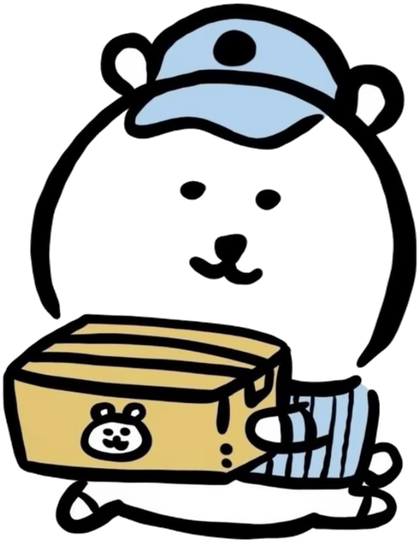
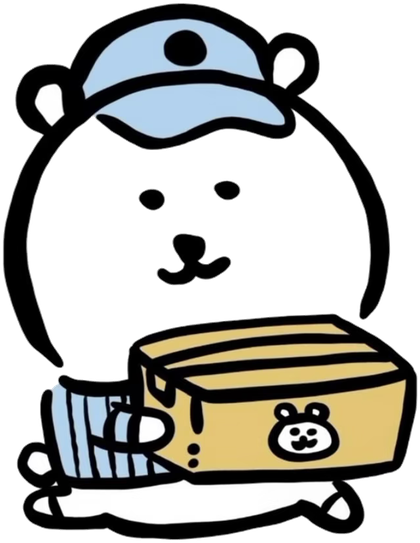
ba48f664-7088-4178-919c-0c181e6376ef

diff --git a/src/components/apps/taobao.tsx b/src/components/apps/taobao.tsx
@@ -63,7 +63,6 @@ import {
   Loader2,
   RefreshCw,
 } from 'lucide-react';
-import { MT_RIDERS, mtGetRiderId, mtRiderSrcOf, mtSetRiderId } from '@/lib/ios/mt-rider';
 import { TB_COURIERS, tbCourierNameOf, tbCourierSrcOf, tbGetCourierId, tbSetCourierId } from '@/lib/ios/tb-courier';
 import { useSettings, useUI } from '@/lib/ios/store';
 import { tbCreateOrderShare, tbCreateProxyRequest } from '@/lib/ios/tb-share-proxy';
@@ -5539,10 +5538,6 @@ function MePage({
   onOpenBill: () => void;
 }) {
   const [, setTick] = useState(0);
-  // 骑手形象选择（需求：我的淘宝淘金币入口改为骑手，复用美团 mt-rider 全套形象；
-  // 选中形象同时用于淘宝物流页地图巡航，与美团共用同一 localStorage）
-  const [riderOpen, setRiderOpen] = useState(false);
-  const [riderId, setRiderId] = useState<string>(() => mtGetRiderId());
   // 运输快递员选择（用户反馈：账户余额位改为快递员；选中的形象用于淘宝物流地图巡航，
   // 独立于美团骑手；默认运输车）
   const [courierOpen, setCourierOpen] = useState(false);
@@ -5728,33 +5723,9 @@ function MePage({
               <span className="text-[17px] font-bold text-black/90">我的消费明细</span>
               <ChevronRight className="h-4 w-4 text-black/35" />
             </button>
-            {/* 送达速度（第六十八轮：右侧三选一 快/正常/慢；全店订单时间按真实时钟跟随该速度） */}
-            <div className="ml-auto flex items-center gap-[3px]" data-testid="tb-speed-picker">
-              {TB_SPEED_ORDER.map((s) => {
-                const on = speed === s;
-                return (
-                  <button
-                    key={s}
-                    type="button"
-                    data-testid={`tb-speed-${s}`}
-                    onClick={() => {
-                      if (speed === s) return;
-                      setSpeed(s);
-                      tbSetDeliverySpeed(uid, s);
-                      onToast(`已切换为「${TB_SPEED_LABEL[s]}」速：付款后${TB_SPEED_DESC[s]}`);
-                    }}
-                    className={`rounded-full px-2.5 py-[3px] text-[11px] leading-none transition-colors active:opacity-75 ${
-                      on ? 'bg-[#FF5000] font-semibold text-white' : 'bg-black/[0.05] text-black/50'
-                    }`}
-                  >
-                    {TB_SPEED_LABEL[s]}
-                  </button>
-                );
-              })}
-            </div>
           </div>
           {/* 资产行（首位=商品图片样式选择器入口：当前样式缩略图+名字，点击弹三选一弹层；
-              优惠券/骑手/快递员 label 上 value 下；行内 items-center 垂直居中对齐） */}
+              优惠券/送达速度/快递员 label 上 value 下；行内 items-center 垂直居中对齐） */}
           <div className="mt-1 flex items-center">
             <button type="button" data-testid="tb-goods-style-entry" onClick={() => setGoodsStyleOpen(true)} className="flex flex-1 flex-col items-center gap-1 py-1 active:opacity-70">
               <GoodsStyleThumb style={goodsImgStyle} className="h-[46px] w-[46px] shrink-0 rounded-[12px]" />
@@ -5764,13 +5735,34 @@ function MePage({
               <span className="text-[12px] leading-none text-black/45">优惠券</span>
               <span className="mt-1.5 flex h-[18px] items-center justify-center text-[16px] font-bold leading-none text-black/90">{coupons.length}张</span>
             </button>
-            {/* 骑手（上轮需求保留：淘金币位显示当前骑手形象，点按弹选择层） */}
-            <button type="button" data-testid="my-rider" onClick={() => setRiderOpen(true)} className="flex flex-1 flex-col items-center py-1.5 active:opacity-70">
-              <span className="text-[12px] leading-none text-black/45">骑手</span>
-              <span className="mt-1.5 flex h-[18px] items-center justify-center">
-                <img src={mtRiderSrcOf(riderId)} alt="骑手形象" draggable={false} className="h-[17px] w-[17px] object-contain" />
-              </span>
-            </button>
+            {/* 送达速度（用户需求：原骑手位改为送货时间快慢选择；快/正常/慢 三选一，
+                全店订单时间按真实时钟跟随该速度） */}
+            <div className="flex flex-1 flex-col items-center py-1.5">
+              <span className="text-[12px] leading-none text-black/45">送达速度</span>
+              <div className="mt-1.5 flex h-[18px] items-center justify-center gap-[2px]" data-testid="tb-speed-picker">
+                {TB_SPEED_ORDER.map((s) => {
+                  const on = speed === s;
+                  return (
+                    <button
+                      key={s}
+                      type="button"
+                      data-testid={`tb-speed-${s}`}
+                      onClick={() => {
+                        if (speed === s) return;
+                        setSpeed(s);
+                        tbSetDeliverySpeed(uid, s);
+                        onToast(`已切换为「${TB_SPEED_LABEL[s]}」速：付款后${TB_SPEED_DESC[s]}`);
+                      }}
+                      className={`rounded-full px-1.5 py-[3px] text-[10px] leading-none transition-colors active:opacity-75 ${
+                        on ? 'bg-[#FF5000] font-semibold text-white' : 'bg-black/[0.05] text-black/50'
+                      }`}
+                    >
+                      {TB_SPEED_LABEL[s]}
+                    </button>
+                  );
+                })}
+              </div>
+            </div>
             {/* 快递员（用户反馈：账户余额位改为快递员；显示当前运输快递员形象，点按弹选择层；
                 选中的形象用于淘宝物流地图巡航，默认运输车） */}
             <button type="button" data-testid="my-courier" onClick={() => setCourierOpen(true)} className="flex flex-1 flex-col items-center py-1.5 active:opacity-70">
@@ -5906,49 +5898,6 @@ function MePage({
     </div>
     <TbPullIndicator h={mePull} upOffset={66} />
     </div>
-    {/* 骑手形象选择（需求：淘金币入口改为骑手；底部弹层复用美团 MT_RIDERS 全套形象，
-        选中后同时用于淘宝物流页地图巡航与美团配送地图，共用同一形象） */}
-    {riderOpen ? (
-      <div className="absolute inset-0 z-50 flex flex-col justify-end bg-black/45" onClick={() => setRiderOpen(false)}>
-        <div className="rounded-t-2xl bg-white [animation:quick-in-up_.26s_cubic-bezier(0.32,0.72,0,1)_both]" onClick={(e) => e.stopPropagation()} data-testid="rider-sheet">
-          <div className="relative flex items-center justify-center pb-3 pt-5">
-            <span className="text-[17px] font-bold text-black/90">选择骑手形象</span>
-            <button type="button" aria-label="关闭" onClick={() => setRiderOpen(false)} className="absolute right-4 top-5 grid h-7 w-7 place-items-center active:opacity-60">
-              <X className="h-[22px] w-[22px] text-black/80" strokeWidth={2.2} />
-            </button>
-          </div>
-          <p className="px-5 pb-3 text-[12px] text-black/40">内置 {MT_RIDERS.length} 位骑手 · 骑手会把你的包裹送到驿站</p>
-          <div className="grid max-h-[52vh] grid-cols-3 gap-3 overflow-y-auto px-4 pb-2 [scrollbar-width:none] [&::-webkit-scrollbar]:hidden">
-            {MT_RIDERS.map((r) => {
-              const active = r.id === riderId;
-              return (
-                <button
-                  key={r.id}
-                  type="button"
-                  data-testid={`rider-${r.id}`}
-                  onClick={() => {
-                    setRiderId(r.id);
-                    mtSetRiderId(r.id);
-                    setRiderOpen(false);
-                    onToast(`骑手「${r.name}」已接单，为你的包裹护航`);
-                  }}
-                  className={`relative flex flex-col items-center rounded-2xl px-2 pb-2.5 pt-3 transition-all active:scale-[0.97] ${active ? 'bg-[#FFF1E6] ring-2 ring-[#FF5000]' : 'bg-[#F7F8FA] ring-1 ring-black/[0.04]'}`}
-                >
-                  {active ? (
-                    <span className="absolute right-1.5 top-1.5 grid h-[18px] w-[18px] place-items-center rounded-full bg-[#FF5000]">
-                      <Check className="h-3 w-3 text-white" strokeWidth={3} />
-                    </span>
-                  ) : null}
-                  <img src={r.src} alt={r.name} draggable={false} className="h-20 w-20 object-contain" />
-                  <span className={`mt-1 text-[12px] ${active ? 'font-semibold text-black/85' : 'text-black/60'}`}>{r.name}</span>
-                </button>
-              );
-            })}
-          </div>
-          <div className="h-7" />
-        </div>
-      </div>
-    ) : null}
     {/* 商品图片样式选择（第六十六轮：从主题 App 迁出的入口弹层；与美团共用同一全局样式） */}
     {goodsStyleOpen ? <GoodsStyleSheet accent="#FF5000" onClose={() => setGoodsStyleOpen(false)} /> : null}
     {/* 运输快递员选择（用户反馈：账户余额位改为快递员；底部弹层内置 9 位快递员，

diff --git a/src/lib/ios/tb-courier.ts b/src/lib/ios/tb-courier.ts
@@ -3,6 +3,8 @@
 /**
  * 淘宝运输快递员形象（我的淘宝-快递员可选；物流地图巡航用，独立于美团骑手体系）：
  * public/couriers 已去白边/浅蓝底透明 PNG（scripts/process-couriers.py 处理），
+ * 并按用户需求水平翻转统一朝右（bunny/polarbear/duck/redcat/pinkcat/bluebear/rabbit
+ * 原 PNG 朝左已镜像；truck/rainbear 原生朝右未动）——物流地图巡航方向左→右，朝右更自然。
  * 立体感由展示侧 drop-shadow + 颠簸动画提供。默认「运输车」。
  */
 

diff --git a/scripts/process-couriers.py b/scripts/process-couriers.py
@@ -5,7 +5,7 @@
 """
 import os
 from collections import deque
-from PIL import Image
+from PIL import Image, ImageOps
 import numpy as np
 
 SRC = '/home/z/my-project/upload'
@@ -14,16 +14,19 @@ os.makedirs(OUT, exist_ok=True)
 
 # id -> 上传文件名
 COURIERS = {
-    'truck':     '1791698774590.png',  # 小熊货车（默认运输车）
-    'bunny':     '1791698742368.png',  # 橙兔摩托
-    'rainbear':  '1791698768847.png',  # 雨天小熊
-    'polarbear': '1791698792961.png',  # 白熊小哥
-    'duck':      '1791698944055.png',  # 鸭鸭三轮
-    'redcat':    '1791698986961.png',  # 红帽咪咪
-    'pinkcat':   '1791699001644.png',  # 粉车咪咪
-    'bluebear':  '1791699006325.png',  # 蓝车熊熊
-    'rabbit':    '1791698737419.png',  # 帽帽兔
+    'truck':     '1791698774590.png',  # 小熊货车（默认运输车；原生朝右）
+    'bunny':     '1791698742368.png',  # 橙兔摩托（朝左→镜像朝右）
+    'rainbear':  '1791698768847.png',  # 雨天小熊（原生朝右）
+    'polarbear': '1791698792961.png',  # 白熊小哥（朝左→镜像朝右）
+    'duck':      '1791698944055.png',  # 鸭鸭三轮（朝左→镜像朝右）
+    'redcat':    '1791698986961.png',  # 红帽咪咪（朝左→镜像朝右）
+    'pinkcat':   '1791699001644.png',  # 粉车咪咪（朝左→镜像朝右）
+    'bluebear':  '1791699006325.png',  # 蓝车熊熊（朝左→镜像朝右）
+    'rabbit':    '1791698737419.png',  # 帽帽兔（朝左→镜像朝右）
 }
+
+# 用户需求：快递员统一朝右（物流地图巡航方向左→右）；原生朝右的 truck/rainbear 不翻转
+FLIP_TO_RIGHT = {'bunny', 'polarbear', 'duck', 'redcat', 'pinkcat', 'bluebear', 'rabbit'}
 
 TOL = 42          # 与背景色的最大色距（0-441）
 ALPHA_EDGE = 210  # 距离超过此值的边缘邻接像素半透明化，柔化白边
@@ -95,6 +98,9 @@ def process(name: str, fname: str):
     if cleaned.width > 420:
         nh = round(cleaned.height * 420 / cleaned.width)
         cleaned = cleaned.resize((420, nh), Image.LANCZOS)
+    # 朝向统一：朝左的角色水平镜像成朝右（用户需求）
+    if name in FLIP_TO_RIGHT:
+        cleaned = ImageOps.mirror(cleaned)
     dst = os.path.join(OUT, f'{name}.png')
     cleaned.save(dst, optimize=True)
     print(f'{name}: {fname} -> {dst} {cleaned.size}')
